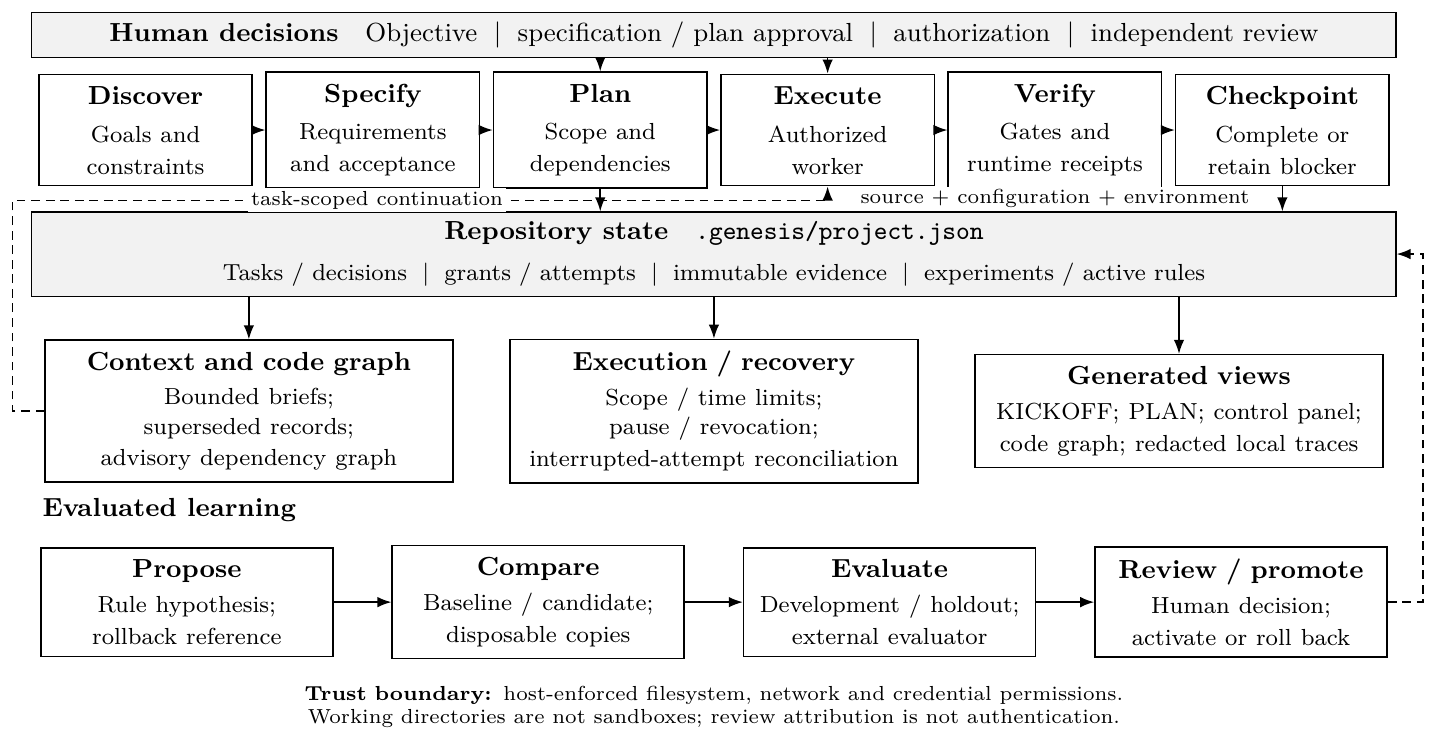
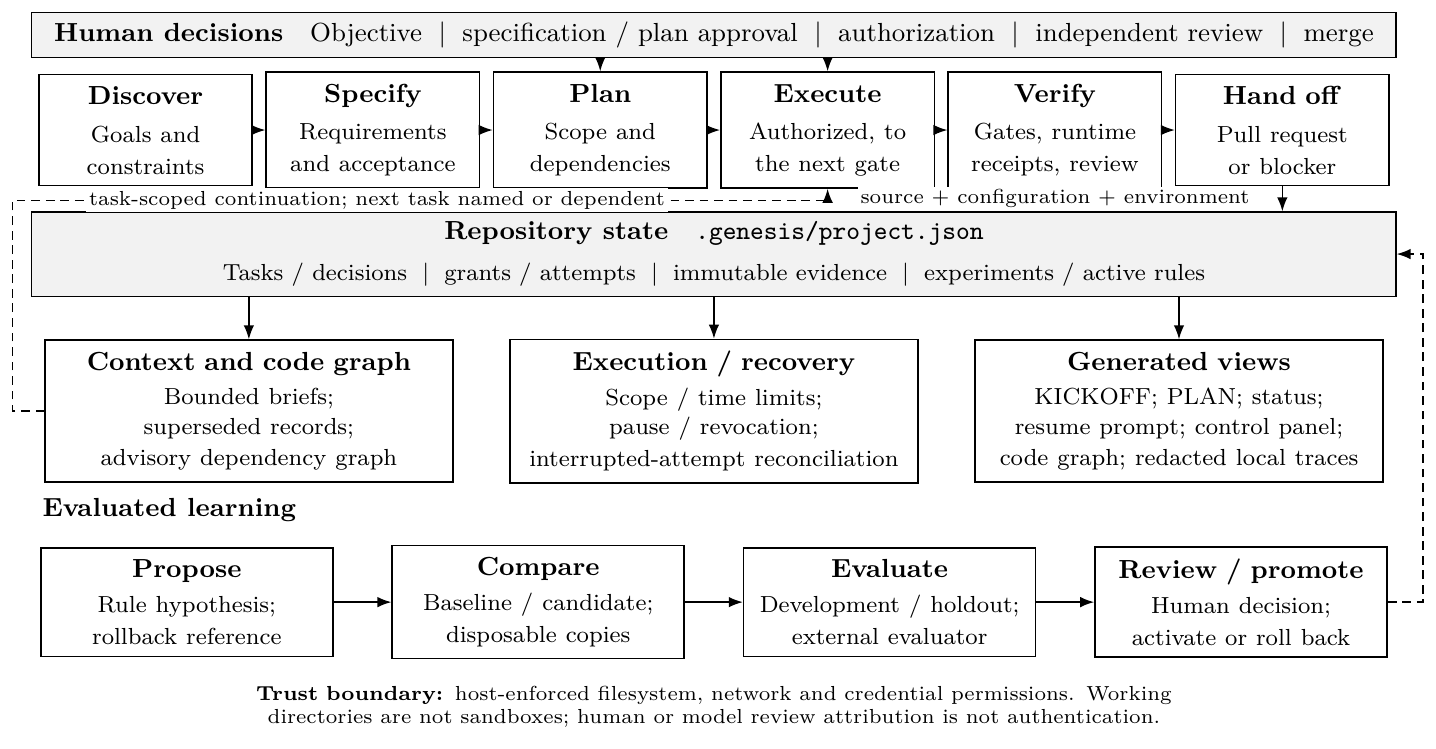
docs: architecture figure shows the handoff at a pull request and explicit continuation
The lifecycle now ends at a handoff (a pull request or a recorded
blocker) with merge as a human decision, execution runs to the next
gate, the continuation arrow carries the named or dependent next task,
and the generated views include status and the resume prompt. Rebuilt
the PDF and PNG from the TikZ source with the documented commands.

diff --git a/docs/assets/genesis-architecture.tex b/docs/assets/genesis-architecture.tex
@@ -12,14 +12,14 @@
  note/.style={font=\rmfamily\scriptsize,fill=white,inner sep=1pt}
 ]
 \node[draw,fill=black!5,minimum width=16.5cm,minimum height=.5cm,font=\fontsize{9}{11}\selectfont] (human) at (8.125,7.8)
- {\textbf{Human decisions}\quad Objective\; $\mid$\; specification / plan approval\; $\mid$\; authorization\; $\mid$\; independent review};
+ {\textbf{Human decisions}\quad Objective\; $\mid$\; specification / plan approval\; $\mid$\; authorization\; $\mid$\; independent review\; $\mid$\; merge};
 \foreach \x/\id/\title/\detail in {
 1.25/discover/Discover/Goals and constraints,
 4/spec/Specify/Requirements and acceptance,
 6.75/plan/Plan/Scope and dependencies,
-9.5/work/Execute/Authorized worker,
-12.25/proof/Verify/Gates and runtime receipts,
-15/checkpoint/Checkpoint/Complete or retain blocker}
+9.5/work/Execute/{Authorized, to the next gate},
+12.25/proof/Verify/{Gates, runtime receipts, review},
+15/checkpoint/Hand off/Pull request or blocker}
  \node[box] (\id) at (\x,6.65) {\textbf{\title}\\[2pt]\fontsize{8}{10}\selectfont \detail};
 \foreach \a/\b in {discover/spec,spec/plan,plan/work,work/proof,proof/checkpoint}
  \draw[flow] (\a) -- (\b);
@@ -36,11 +36,11 @@
 \node[box,text width=4.65cm,minimum height=1.05cm] (recovery) at (8.125,3.25)
  {\textbf{Execution / recovery}\\[2pt]\fontsize{8}{10}\selectfont Scope / time limits; pause / revocation;\\interrupted-attempt reconciliation};
 \node[box,text width=4.65cm,minimum height=1.05cm] (views) at (13.75,3.25)
- {\textbf{Generated views}\\[2pt]\fontsize{8}{10}\selectfont KICKOFF; PLAN; control panel;\\code graph; redacted local traces};
+ {\textbf{Generated views}\\[2pt]\fontsize{8}{10}\selectfont KICKOFF; PLAN; status;\\resume prompt; control panel;\\code graph; redacted local traces};
 \foreach \n in {context,recovery,views}
  \draw[flow] (state.south -| \n.north) -- (\n.north);
 \draw[feedback] (context.west) -- (-.36,3.25) -- (-.36,5.8) -| (work.south);
-\node[note] at (4.05,5.8) {task-scoped continuation};
+\node[note] at (4.05,5.8) {task-scoped continuation; next task named or dependent};
 \node[anchor=west,font=\small\bfseries] at (-.12,2.05) {Evaluated learning};
 \node[box,text width=3.25cm,minimum height=1.05cm] (proposal) at (1.75,.94)
  {\textbf{Propose}\\[2pt]\fontsize{8}{10}\selectfont Rule hypothesis;\\rollback reference};
@@ -54,6 +54,6 @@
  \draw[flow] (\a) -- (\b);
 \draw[feedback] (promote.east) -- (16.7,.94) -- (16.7,5.15) -- (state.east);
 \node[font=\scriptsize,anchor=north,align=center,text width=16.5cm] at (8.125,.05)
- {\textbf{Trust boundary:} host-enforced filesystem, network and credential permissions. Working directories are not sandboxes; review attribution is not authentication.};
+ {\textbf{Trust boundary:} host-enforced filesystem, network and credential permissions. Working directories are not sandboxes; human or model review attribution is not authentication.};
 \end{tikzpicture}
 \end{document}

diff --git a/README.md b/README.md
@@ -24,10 +24,10 @@ Genesis runs locally on **Node.js 18+ with no npm dependencies**. Coding hosts s
 ## Architecture
 
 <p align="center">
-  <img src="docs/assets/genesis-architecture.png" alt="Genesis architecture: human-approved discovery, specification and planning lead to authorized execution, verification and checkpointing. Durable repository state supplies context, recovery and generated views. A separate baseline/candidate evaluation loop requires human review before promoting learned rules." width="1100">
+  <img src="docs/assets/genesis-architecture.png" alt="Genesis architecture: human-approved discovery, specification and planning lead to authorized execution that continues to the next gate, verification, and a handoff as a pull request or a recorded blocker. Durable repository state supplies context, recovery and generated views including status and a resume prompt. A separate baseline/candidate evaluation loop requires human review before promoting learned rules." width="1100">
 </p>
 
-<p align="center"><em>Figure 1. The development lifecycle and evaluated-learning loop share durable state; task completion and rule promotion have separate evidence requirements.</em><br>
+<p align="center"><em>Figure 1. The development lifecycle and evaluated-learning loop share durable state; task completion and rule promotion have separate evidence requirements. A build task ends at a pull request the human merges.</em><br>
 <a href="docs/assets/genesis-architecture.tex">LaTeX / TikZ source</a> · <a href="docs/assets/genesis-architecture.pdf">Vector PDF</a> · <a href="docs/assets/README.md">Reproduce the figure</a></p>
 
 | Layer | Responsibility | Durable output |

diff --git a/docs/assets/README.md b/docs/assets/README.md
@@ -12,4 +12,4 @@ pdftoppm -png -singlefile -r 210 \
 
 Commit the `.tex`, vector `.pdf` and rendered `.png` together. Tectonic may download TeX packages on its first run. These are documentation-build tools, not Genesis runtime dependencies.
 
-The figure separates the development lifecycle, canonical repository state, generated context/recovery/views, and evaluated-learning path. Dashed arrows indicate feedback into later work. The trust-boundary note is part of the architecture: local files and working directories do not authenticate reviewers or isolate an evaluator.
+The figure separates the development lifecycle, canonical repository state, generated context/recovery/views, and evaluated-learning path. Dashed arrows indicate feedback into later work; the continuation arrow carries only the next task that was named or that depended on the finished one. The lifecycle ends at a handoff, which is a pull request for a build task or a recorded blocker, and merging stays a human decision. The trust-boundary note is part of the architecture: local files and working directories do not authenticate reviewers, human or model, or isolate an evaluator.
